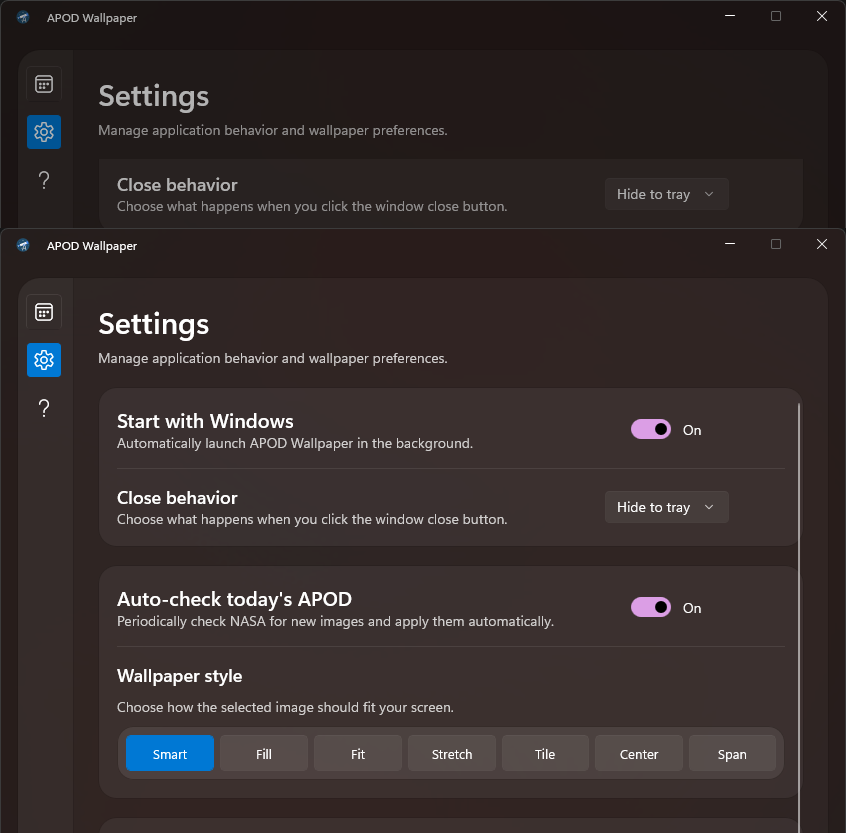
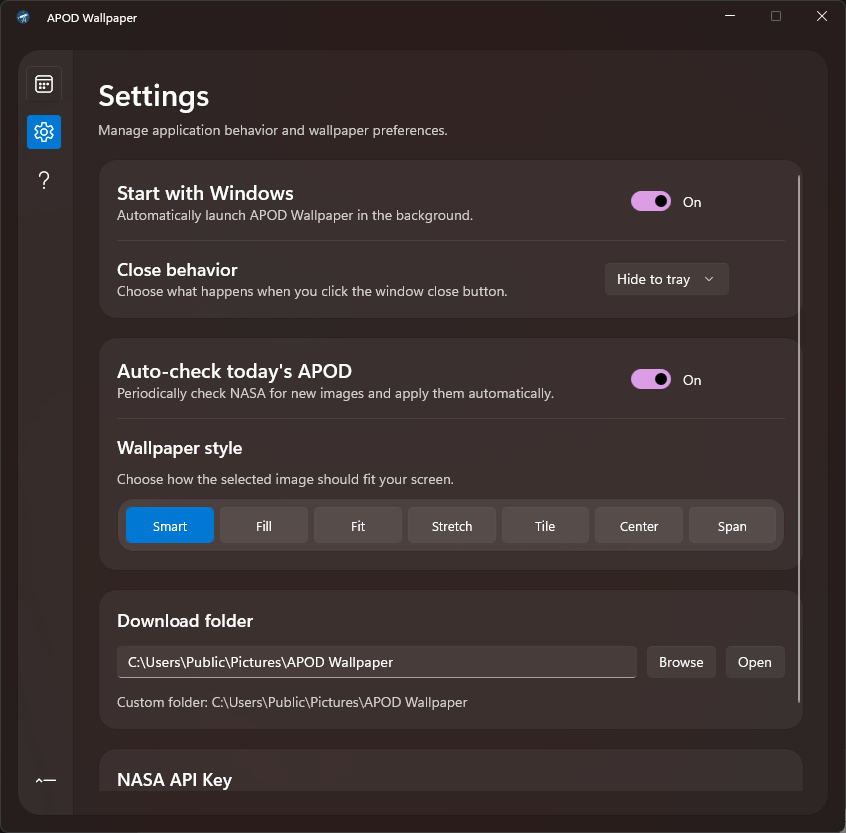
Improve website screenshots and smart mode copy

diff --git a/website/index.html b/website/index.html
@@ -153,8 +153,8 @@
           <img src="assets/smart-original-4.svg" alt="Original panoramic APOD example">
           <div class="smart-arrow" aria-hidden="true">→</div>
           <img src="assets/smart-desktop-4.svg" alt="Smart wallpaper result example">
-          <h3>Panorama</h3>
-          <p>Panoramic images can be adapted to the desktop while keeping the scene recognizable.</p>
+          <h3>Ultra-vertical image</h3>
+          <p>Extremely tall images can be presented without pretending they were born as desktop wallpapers.</p>
         </article>
       </div>
     </section>
@@ -167,19 +167,43 @@
       <div class="screen-grid">
         <figure>
           <img src="assets/screenshot-main.png" alt="APOD Wallpaper calendar screen">
-          <figcaption>Main calendar and preview</figcaption>
+          <figcaption>
+            <strong>Main calendar and preview</strong>
+            <span>
+              Browse APOD dates, see local/available/video states, preview the image and NASA explanation,
+              open the original NASA page, download, apply, or turn on automatic daily wallpaper updates.
+            </span>
+          </figcaption>
         </figure>
         <figure>
           <img src="assets/screenshot-settings.png" alt="APOD Wallpaper settings screen">
-          <figcaption>Settings and wallpaper style</figcaption>
+          <figcaption>
+            <strong>Settings and wallpaper style</strong>
+            <span>
+              Control startup behavior, close-to-tray behavior, automatic checks, download folder,
+              and wallpaper fit mode from one compact settings screen.
+            </span>
+          </figcaption>
         </figure>
         <figure>
           <img src="assets/screenshot-api-key.png" alt="NASA API key dialog">
-          <figcaption>Optional NASA API key</figcaption>
+          <figcaption>
+            <strong>Optional NASA API key</strong>
+            <span>
+              The app works without a personal key, but adding one can improve calendar warmup
+              and reduce shared DEMO_KEY rate-limit issues.
+            </span>
+          </figcaption>
         </figure>
         <figure>
           <img src="assets/screenshot-about.png" alt="About screen">
-          <figcaption>About and support links</figcaption>
+          <figcaption>
+            <strong>About and support links</strong>
+            <span>
+              Quick access to the project repository, website, support contact, privacy policy,
+              license, and third-party notices.
+            </span>
+          </figcaption>
         </figure>
       </div>
     </section>

diff --git a/website/styles.css b/website/styles.css
@@ -477,14 +477,28 @@ h3 {
   display: block;
   width: 100%;
   aspect-ratio: 4 / 3;
-  object-fit: cover;
+  object-fit: contain;
   border-radius: 20px;
-  background: rgba(255, 255, 255, 0.08);
+  background:
+    radial-gradient(circle at 18% 10%, rgba(111, 231, 255, 0.09), transparent 18rem),
+    rgba(255, 255, 255, 0.08);
 }
 
 .screen-grid figcaption {
-  padding: 14px 8px 4px;
+  display: grid;
+  gap: 8px;
+  padding: 16px 10px 6px;
   color: var(--muted);
+  line-height: 1.55;
+}
+
+.screen-grid figcaption strong {
+  color: var(--text);
+  font-size: 1.08rem;
+}
+
+.screen-grid figcaption span {
+  display: block;
 }
 
 .split {